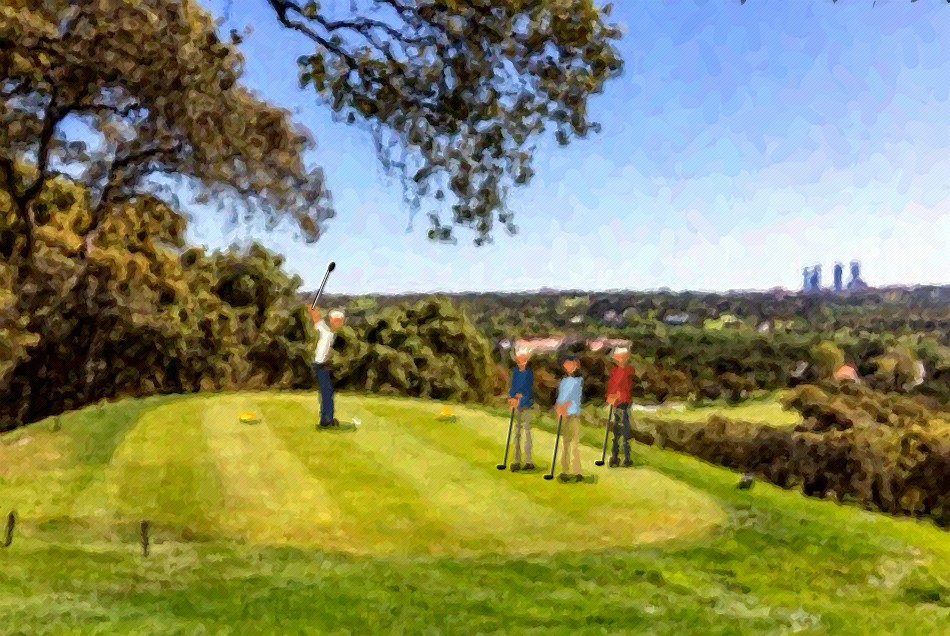
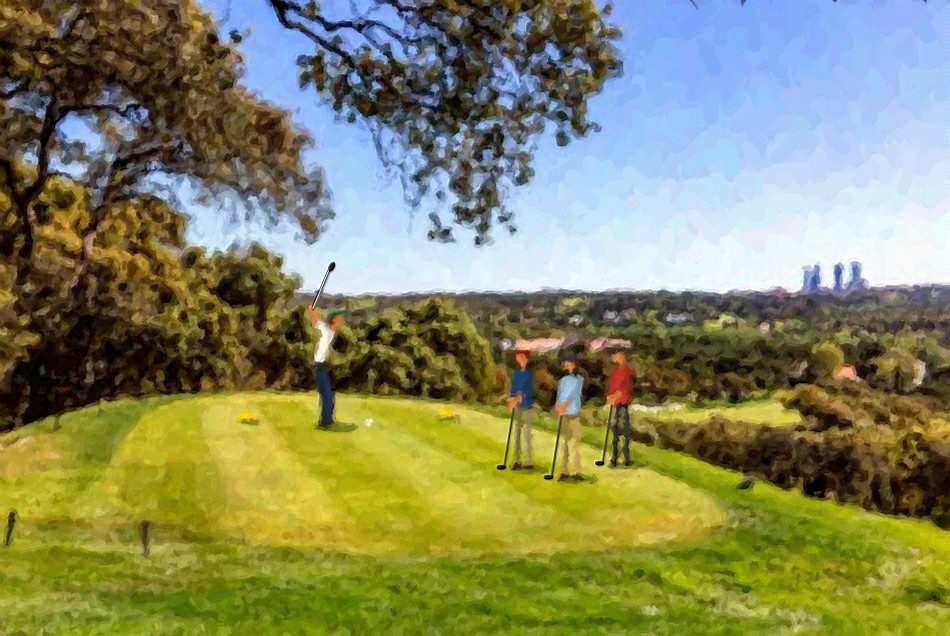
Tarjeta: coloured caps and dark hair on the golfers, ball further out

diff --git a/golf/tarjeta/img/paint.js b/golf/tarjeta/img/paint.js
@@ -7,7 +7,7 @@
 // strokes, coarse to fine, each laid along the direction of the shapes underneath, with a little
 // relief so the paint catches the light. The result is kept on this phone so it is only painted once.
 let sketchURL = null, sketching = false;
-const PAINT_VERSION = 'paint-v6';
+const PAINT_VERSION = 'paint-v7';
 function paintGolfers(x, S) {
   clubs = [];
   // photo pixels (475 x 318) to canvas pixels
@@ -34,6 +34,7 @@ function paintGolfers(x, S) {
     disc(X(-5.8), Y(33), 1.9 * u, sh(skin, .95));
     line(X(-1), Y(55), X(-.5), Y(57.5), 2.4 * u, sh(skin, .85));                                    // neck
     disc(X(-.6), Y(61), 3.9 * u, skin); disc(X(1.2), Y(61), 2.6 * u, sh(skin, .82));                // head, lit from the left
+    poly([[X(0.5), Y(62.8)], [X(3.6), Y(62.8)], [X(3.4), Y(58.2)], [X(1.8), Y(57.6)]], '#4a3426');                 // dark hair at the back
     poly([[X(-4.5), Y(62.5)], [X(3.8), Y(62.5)], [X(3.4), Y(65.3)], [X(-4.2), Y(65.3)]], cap);     // cap
     poly([[X(-8), Y(62.2)], [X(-4), Y(62.2)], [X(-4), Y(61.2)], [X(-8), Y(61.4)]], sh(cap, .85));  // brim, facing left
     clubs.push([X(-5.8), Y(33), X(-11), Y(0.5), 1.1 * u, '#4b4943', [-1.6 * u, 0, 2.6 * u, 1.3 * u, 0]]);
@@ -56,10 +57,11 @@ function paintGolfers(x, S) {
     disc(X(-6.3), Y(66), 2 * u, skin);                                                                // hands at the top
     line(X(5.5), Y(54), X(6.5), Y(56.5), 2.4 * u, sh(skin, .85));                                    // neck
     disc(X(7.5), Y(59.5), 3.8 * u, skin); disc(X(9), Y(59), 2.4 * u, sh(skin, .85));                 // head, looking down at the ball
+    poly([[X(3.6), Y(61.2)], [X(6.4), Y(61.2)], [X(5.8), Y(57)], [X(3.9), Y(57.6)]], '#4a3426');                   // dark hair at the back
     poly([[X(3.6), Y(61)], [X(11), Y(61.5)], [X(10.6), Y(64.2)], [X(4), Y(64)]], cap);
     poly([[X(10.5), Y(61)], [X(14), Y(60)], [X(14), Y(59.2)], [X(10.5), Y(60)]], sh(cap, .85));       // brim towards the ball
-    x.fillStyle = '#e8dcc0'; x.fillRect(X(17.6), Y(1.4), .8 * u, 1.8 * u);                           // tee peg, a club length from his feet
-    disc(X(18), Y(2.5), 1.25 * u, '#fbfbf6');                                                         // ball
+    x.fillStyle = '#e8dcc0'; x.fillRect(X(24.6), Y(1.4), .8 * u, 1.8 * u);                           // tee peg, a club length from his feet
+    disc(X(25), Y(2.5), 1.25 * u, '#fbfbf6');                                                         // ball
     // club almost vertical at the top, leaning slightly right (photo direction (17, -40))
     const L = 24, dx = .391 * L, dy = .920 * L;
     clubs.push([X(-6.3), Y(66), X(-6.3 + dx), Y(66 + dy), 1.5 * u, '#3a3833', null]);
@@ -74,11 +76,11 @@ function paintGolfers(x, S) {
   // markers where the tee is in use; the golfer tees up between them, just behind their line
   marker(...P(124, 210), 3.9 * S); marker(...P(223, 208.5), 3.9 * S);
   const g = P(162, 213);
-  golfer(g[0], g[1], 57 * S, '#f1eee6', '#2e3a52', '#f1eee6');
+  golfer(g[0], g[1], 57 * S, '#f1eee6', '#2e3a52', '#2f5a3a');
   // the other three to his right and a little behind him, facing him
-  watcher(...P(262, 234), 58 * S, '#2f4a6e', '#8c8474', '#f1eee6');
+  watcher(...P(262, 234), 58 * S, '#2f4a6e', '#8c8474', '#6b2e2b');
   watcher(...P(286, 239), 60 * S, '#a7c1d9', '#b19c73', '#27344f');
-  watcher(...P(311, 232), 57 * S, '#9a4a45', '#3a3d45', '#f1eee6');
+  watcher(...P(311, 232), 57 * S, '#9a4a45', '#3a3d45', '#3a3d45');
 }
 let clubs = [];
 function paintClubs(x) {

diff --git a/golf/tarjeta/index.html b/golf/tarjeta/index.html
@@ -711,7 +711,7 @@ function vHome() {
   app.innerHTML = `
     <section class="agh">
       <div class="agh-scene" aria-hidden="true">
-        <img class="agh-sketch" src="img/tee-painting.jpg?v=6" alt="Óleo del tee del Club de Campo con cuatro jugadores">
+        <img class="agh-sketch" src="img/tee-painting.jpg?v=7" alt="Óleo del tee del Club de Campo con cuatro jugadores">
       </div>
       <div class="agh-board">
         <div class="agh-arch">TARJETA</div>
